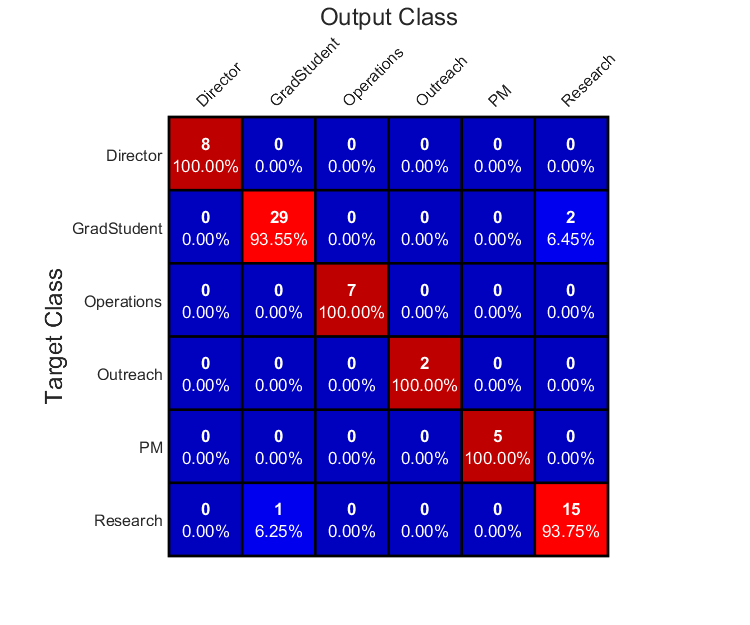
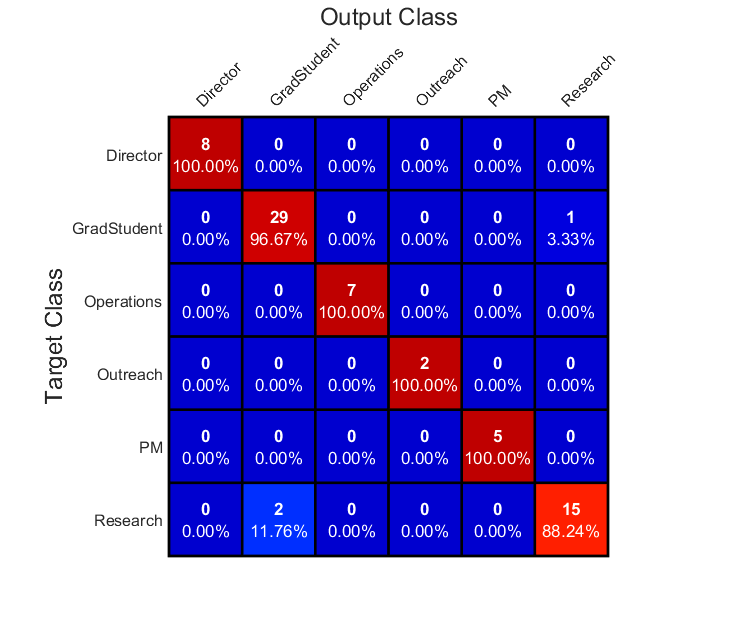
Fixing pictures

diff --git a/Straub_KM_T_2016.tex b/Straub_KM_T_2016.tex
@@ -776,7 +776,7 @@ The confusion matrix for this analysis is another way to visualize the results, 
 
 \begin{figure}[t]
     \centering
-        \includegraphics[width=.9\columnwidth,trim={1mm 6mm 1mm 3.5mm},clip]{class_confusion_mat}
+        \includegraphics[width=.9\columnwidth,trim={1mm 6mm 1mm 3.5mm},clip]{Classification_confusion}
         \vspace{-7pt}
         \caption[Job title prediction confusion matrix]{Confusion matrix for the job prediction test.  The only two classes that confused the classifier were graduate student and research, making a total of 3 errors.  These classes are very similar, so it is understandable that there would be errors.}
         \label{fig:conf_matrix}
